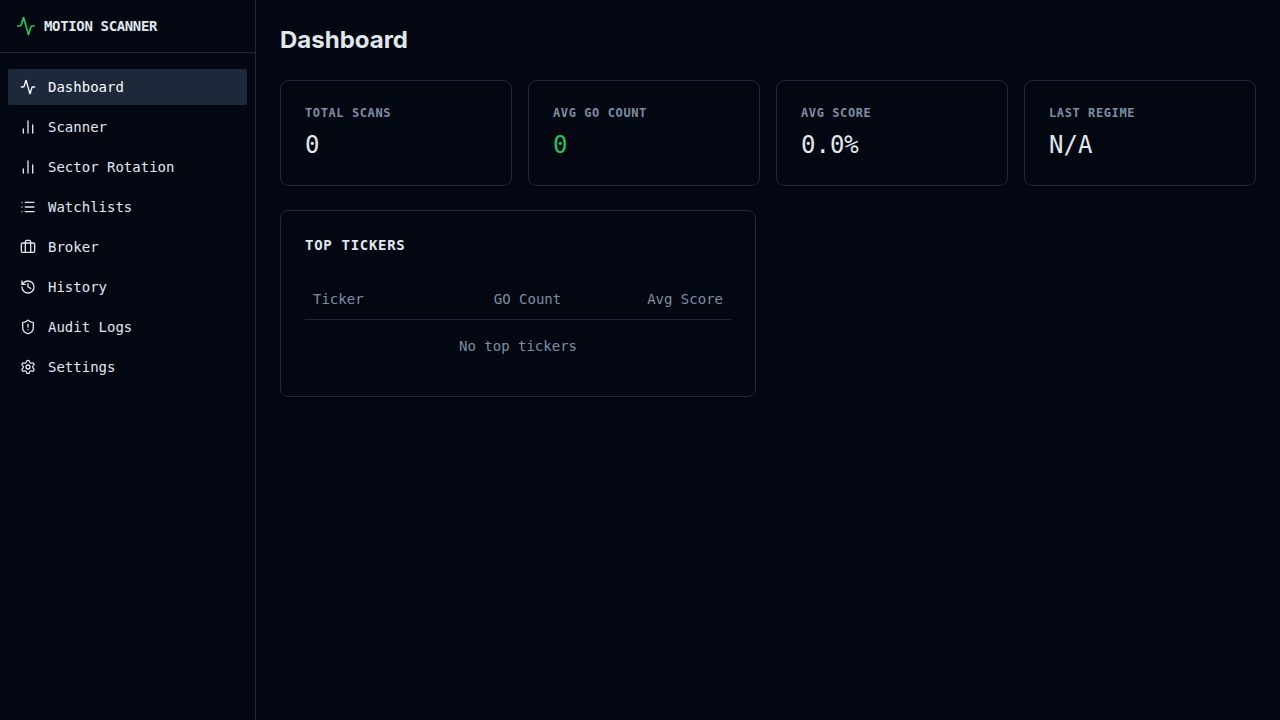
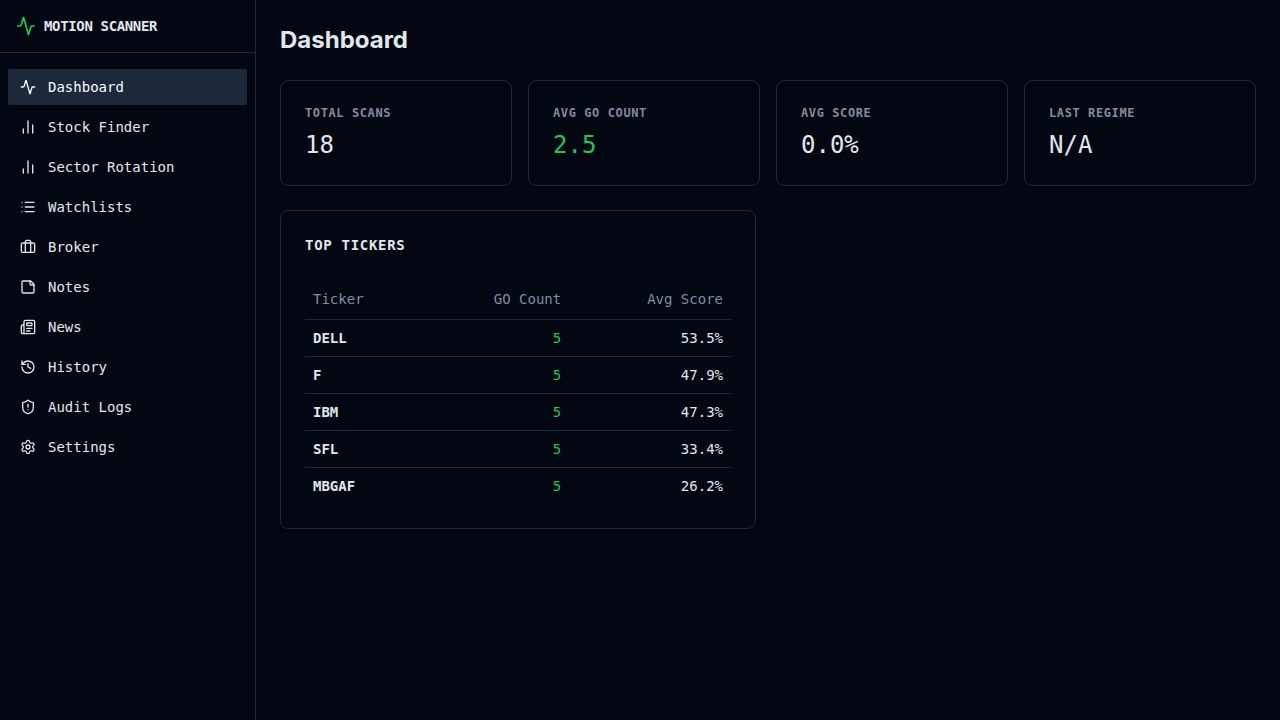
Add ability for users to save stocks to watchlists
Integrates a new `WatchlistSaveButton` component into the `scanner.tsx` page, allowing users to add stocks to watchlists. This involves updating API client hooks and UI elements for watchlist management, including creating new watchlists and toggling stock inclusion.

Replit-Commit-Author: Agent
Replit-Commit-Session-Id: 8de2fc09-6ed9-4be5-be46-2e6319f9f250
Replit-Commit-Checkpoint-Type: full_checkpoint
Replit-Commit-Event-Id: 538ee02b-8835-4356-82a4-7e7fdcf642be
Replit-Commit-Screenshot-Url: https://storage.googleapis.com/screenshot-production-us-central1/2c7d6a2a-e938-4bd9-b139-93dc24a281a8/8de2fc09-6ed9-4be5-be46-2e6319f9f250/LbcliCf
Replit-Helium-Checkpoint-Created: true

diff --git a/artifacts/motion-scanner/src/pages/scanner.tsx b/artifacts/motion-scanner/src/pages/scanner.tsx
@@ -1,6 +1,10 @@
 import { useState, useCallback } from "react";
-import { useRunScan, useListWatchlists, useRunScreener } from "@workspace/api-client-react";
-import type { ScanResult, CandidateRecord, RunScreenerParams } from "@workspace/api-client-react";
+import { useQueryClient } from "@tanstack/react-query";
+import {
+  useRunScan, useListWatchlists, useRunScreener,
+  useUpdateWatchlist, useCreateWatchlist,
+} from "@workspace/api-client-react";
+import type { ScanResult, CandidateRecord, RunScreenerParams, Watchlist } from "@workspace/api-client-react";
 import { TickerChart } from "@/components/TickerChart";
 import { Card, CardContent, CardHeader, CardTitle } from "@/components/ui/card";
 import { Button } from "@/components/ui/button";
@@ -14,7 +18,9 @@ import { Table, TableBody, TableCell, TableHead, TableHeader, TableRow } from "@
 import { Select, SelectContent, SelectItem, SelectTrigger, SelectValue } from "@/components/ui/select";
 import { Sheet, SheetContent, SheetHeader, SheetTitle } from "@/components/ui/sheet";
 import { Tabs, TabsContent, TabsList, TabsTrigger } from "@/components/ui/tabs";
-import { RefreshCw, Filter, SlidersHorizontal, BarChart2 } from "lucide-react";
+import { Popover, PopoverContent, PopoverTrigger } from "@/components/ui/popover";
+import { useToast } from "@/hooks/use-toast";
+import { RefreshCw, Filter, SlidersHorizontal, BarChart2, Bookmark, BookmarkCheck, Plus, Check, Loader2, ListPlus } from "lucide-react";
 import { formatPercent, formatCurrency } from "@/lib/format";
 
 // ── Shared sub-components ──────────────────────────────────────────────────
@@ -274,6 +280,168 @@ function TickerDetail({ c }: { c: CandidateRecord }) {
   );
 }
 
+// ── Watchlist save button ──────────────────────────────────────────────────
+function WatchlistSaveButton({ ticker }: { ticker: string }) {
+  const qc = useQueryClient();
+  const { toast } = useToast();
+  const [open, setOpen] = useState(false);
+  const [newName, setNewName] = useState("");
+  const [creating, setCreating] = useState(false);
+
+  const { data: watchlists = [] } = useListWatchlists();
+
+  const inAny = watchlists.some((wl) => wl.tickers.includes(ticker));
+
+  const { mutate: updateWl, isPending: updating } = useUpdateWatchlist({
+    mutation: {
+      onSuccess: () => {
+        qc.invalidateQueries({ queryKey: ["/api/watchlists"] });
+      },
+    },
+  });
+
+  const { mutate: createWl, isPending: creatingWl } = useCreateWatchlist({
+    mutation: {
+      onSuccess: (created) => {
+        qc.invalidateQueries({ queryKey: ["/api/watchlists"] });
+        setNewName("");
+        setCreating(false);
+        toast({ title: `Added ${ticker} to "${created.name}"` });
+      },
+    },
+  });
+
+  function toggleTicker(wl: Watchlist) {
+    const already = wl.tickers.includes(ticker);
+    const next = already
+      ? wl.tickers.filter((t) => t !== ticker)
+      : [...wl.tickers, ticker];
+    updateWl(
+      { id: wl.id, data: { name: wl.name, tickers: next } },
+      {
+        onSuccess: () =>
+          toast({
+            title: already
+              ? `Removed ${ticker} from "${wl.name}"`
+              : `Added ${ticker} to "${wl.name}"`,
+          }),
+      },
+    );
+  }
+
+  function handleCreate() {
+    const name = newName.trim();
+    if (!name) return;
+    createWl({ data: { name, tickers: [ticker] } });
+  }
+
+  return (
+    <Popover open={open} onOpenChange={setOpen}>
+      <PopoverTrigger asChild>
+        <Button
+          variant="ghost"
+          size="icon"
+          className={`h-7 w-7 rounded-md transition-colors ${
+            inAny
+              ? "text-[hsl(var(--go-color))] hover:text-[hsl(var(--go-color))]/80"
+              : "text-muted-foreground hover:text-foreground"
+          }`}
+          onClick={(e) => e.stopPropagation()}
+        >
+          {inAny
+            ? <BookmarkCheck className="h-3.5 w-3.5" />
+            : <Bookmark className="h-3.5 w-3.5" />}
+        </Button>
+      </PopoverTrigger>
+
+      <PopoverContent
+        className="w-64 p-0"
+        align="end"
+        onClick={(e) => e.stopPropagation()}
+      >
+        {/* Header */}
+        <div className="flex items-center gap-2 px-3 py-2.5 border-b border-border">
+          <ListPlus className="h-3.5 w-3.5 text-muted-foreground" />
+          <span className="text-xs font-semibold uppercase tracking-wider text-muted-foreground">
+            Save <span className="text-foreground">{ticker}</span> to watchlist
+          </span>
+        </div>
+
+        {/* Existing watchlists */}
+        <div className="max-h-52 overflow-y-auto">
+          {watchlists.length === 0 ? (
+            <div className="px-3 py-4 text-xs text-muted-foreground text-center">
+              No watchlists yet — create one below.
+            </div>
+          ) : (
+            watchlists.map((wl) => {
+              const has = wl.tickers.includes(ticker);
+              return (
+                <button
+                  key={wl.id}
+                  disabled={updating}
+                  onClick={() => toggleTicker(wl)}
+                  className="w-full flex items-center justify-between px-3 py-2 text-sm hover:bg-muted/40 transition-colors disabled:opacity-50"
+                >
+                  <div className="flex items-center gap-2 min-w-0">
+                    <div className={`h-1.5 w-1.5 rounded-full flex-shrink-0 ${has ? "bg-[hsl(var(--go-color))]" : "bg-muted-foreground/40"}`} />
+                    <span className="truncate font-medium">{wl.name}</span>
+                    <span className="text-xs text-muted-foreground flex-shrink-0">
+                      {wl.tickers.length}
+                    </span>
+                  </div>
+                  {updating ? (
+                    <Loader2 className="h-3.5 w-3.5 animate-spin text-muted-foreground" />
+                  ) : has ? (
+                    <Check className="h-3.5 w-3.5 text-[hsl(var(--go-color))]" />
+                  ) : (
+                    <Plus className="h-3.5 w-3.5 text-muted-foreground" />
+                  )}
+                </button>
+              );
+            })
+          )}
+        </div>
+
+        {/* Create new watchlist */}
+        <div className="border-t border-border p-2">
+          {creating ? (
+            <div className="flex gap-1.5">
+              <Input
+                autoFocus
+                value={newName}
+                onChange={(e) => setNewName(e.target.value)}
+                onKeyDown={(e) => {
+                  if (e.key === "Enter") handleCreate();
+                  if (e.key === "Escape") { setCreating(false); setNewName(""); }
+                }}
+                placeholder="Watchlist name..."
+                className="h-7 text-xs font-mono"
+              />
+              <Button
+                size="sm"
+                disabled={!newName.trim() || creatingWl}
+                onClick={handleCreate}
+                className="h-7 px-2 text-xs"
+              >
+                {creatingWl ? <Loader2 className="h-3 w-3 animate-spin" /> : "Add"}
+              </Button>
+            </div>
+          ) : (
+            <button
+              onClick={() => setCreating(true)}
+              className="w-full flex items-center gap-2 px-1 py-1 text-xs text-muted-foreground hover:text-foreground transition-colors rounded"
+            >
+              <Plus className="h-3.5 w-3.5" />
+              New watchlist...
+            </button>
+          )}
+        </div>
+      </PopoverContent>
+    </Popover>
+  );
+}
+
 // ── Results table (shared) ─────────────────────────────────────────────────
 function ResultsTable({
   rows,
@@ -286,6 +454,7 @@ function ResultsTable({
     <Table>
       <TableHeader>
         <TableRow className="border-border">
+          <TableHead className="w-8"></TableHead>
           <TableHead>Ticker</TableHead>
           <TableHead>Verdict</TableHead>
           <TableHead>Score</TableHead>
@@ -308,6 +477,9 @@ function ResultsTable({
               className="border-border cursor-pointer hover:bg-muted/30 transition-colors"
               onClick={() => onSelect(c)}
             >
+              <TableCell className="pr-0" onClick={(e) => e.stopPropagation()}>
+                <WatchlistSaveButton ticker={c.ticker} />
+              </TableCell>
               <TableCell className="font-bold font-mono">{c.ticker}</TableCell>
               <TableCell><VerdictBadge verdict={c.verdict} /></TableCell>
               <TableCell><ScoreBar score={c.score} /></TableCell>